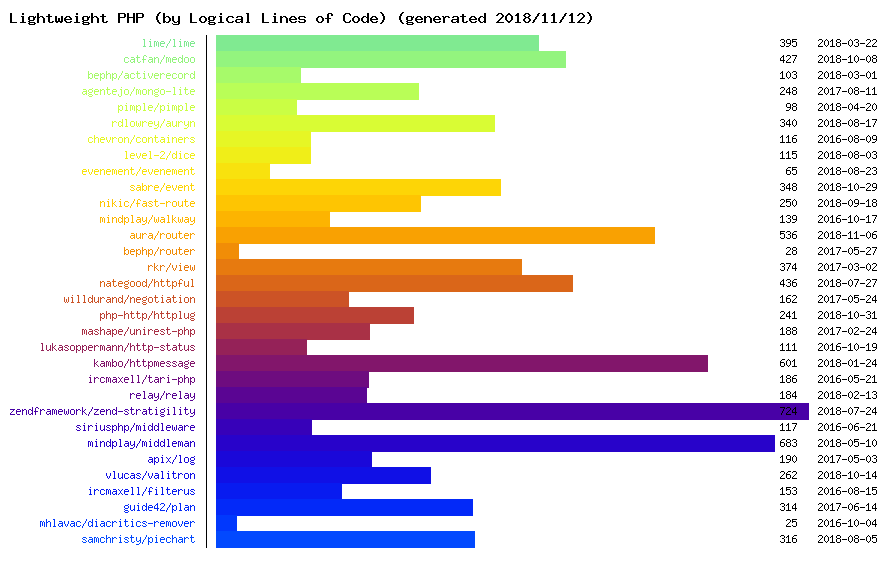
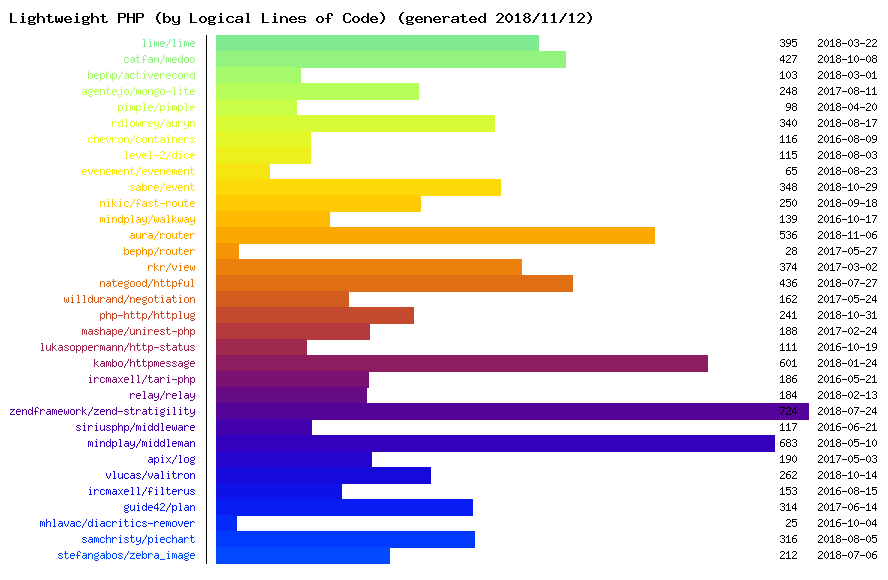
Zebra Image

Changed region(s): [[0.2432, 0.931, 0.4561, 0.9931], [0.152, 0.931, 0.1824, 0.9621], [0.0912, 0.931, 0.1216, 0.9621]]

diff --git a/README.md b/README.md
@@ -81,3 +81,4 @@ List of lightweight PHP libraries.
 ## Graphics
 
 * [PieChart](https://github.com/SamChristy/PieChart) - A simple class for drawing pie charts
+* [Zebra_Image](https://github.com/stefangabos/Zebra_Image) - A compact and lightweight library for image manipulation
